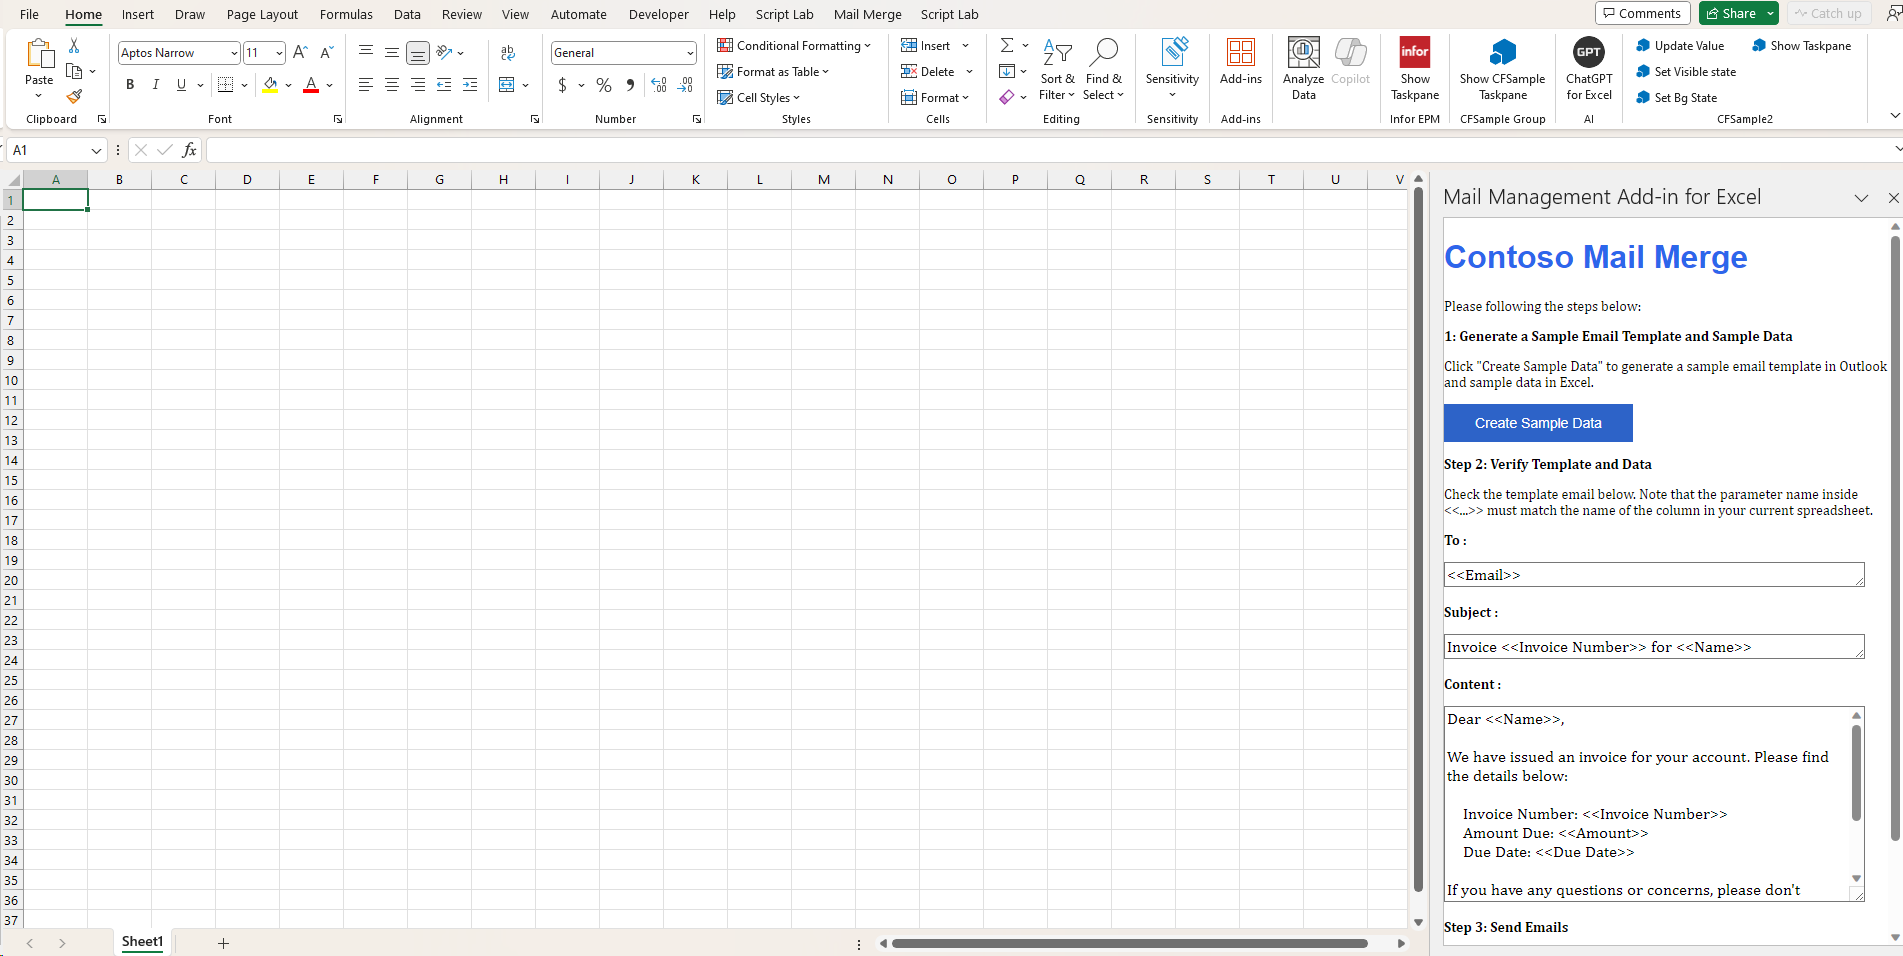
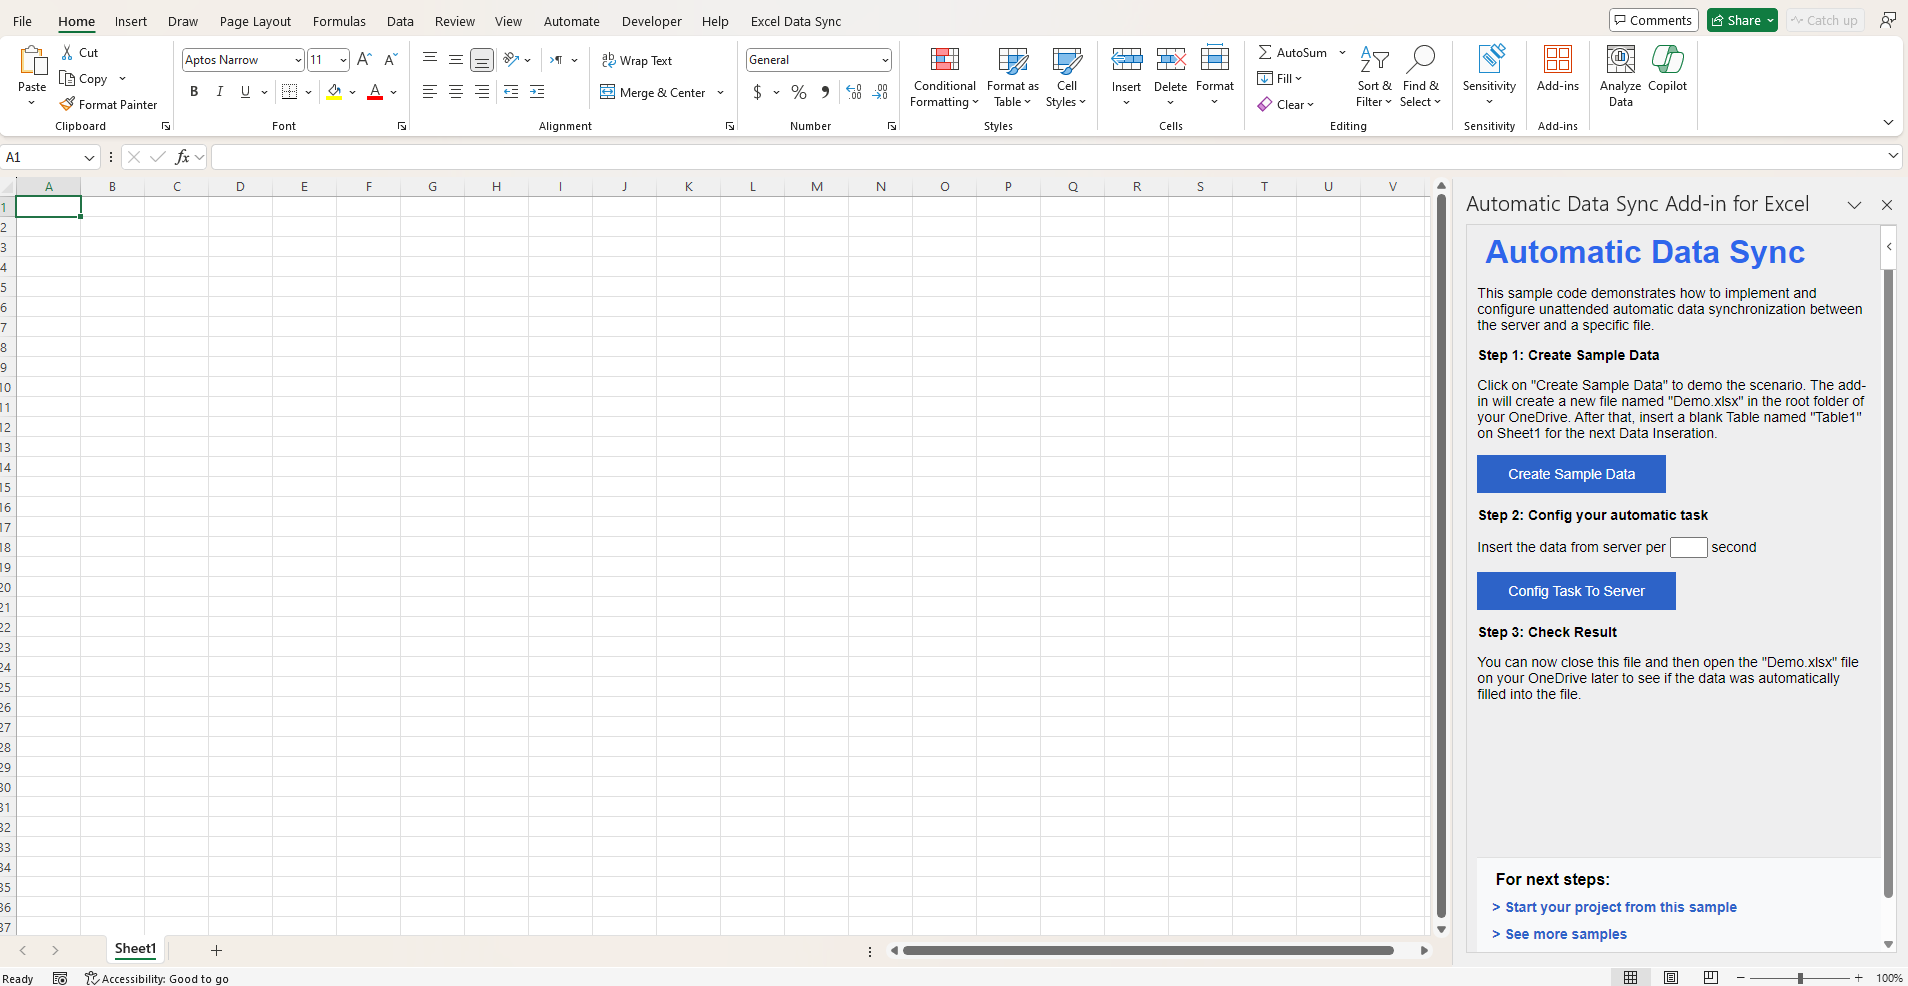
Modify ReadME.md file.

Changed region(s): [[0.0, 0.0, 1.0, 1.0], [0.9301, 0.9707, 1.0, 1.0]]

diff --git a/Config-Data-Sync-Add-in/src/taskpane/taskpane.html b/Config-Data-Sync-Add-in/src/taskpane/taskpane.html
@@ -10,14 +10,14 @@
     <link rel="stylesheet"
         href="https://static2.sharepointonline.com/files/fabric/office-ui-fabric-core/11.0.0/css/fabric.min.css" />
     <link rel="stylesheet" href="taskpane.css" />
-    <title>Config Data Sync</title>
+    <title>Automatic Data Sync</title>
     <meta name="viewport" content="width=device-width, initial-scale=1">
 
 </head>
 
 <body>
     <div class="container">
-        <h1 style="margin: 8px;">Config Data Sync</h1>
+        <h1 style="margin: 8px;">Automatic Data Sync</h1>
         <p>This sample code demonstrates how to implement and configure unattended automatic data synchronization
             between the server and a specific file.</p>
         <p></p>

diff --git a/Config-Data-Sync-Add-in/README.md b/Config-Data-Sync-Add-in/README.md
@@ -1,4 +1,4 @@
-# Microsoft Excel Config Data Sync Sample Add-in
+# Microsoft Excel Automatic Data Sync Sample Add-in
 
 [![Node.js build](https://github.com/microsoftgraph/msgraph-training-office-addin/actions/workflows/node.js.yml/badge.svg)](https://github.com/microsoftgraph/msgraph-training-office-addin/actions/workflows/node.js.yml) ![License.](https://img.shields.io/badge/license-MIT-green.svg)
 
@@ -12,7 +12,7 @@ This sample demonstrates how to use the Microsoft Graph JavaScript SDK to implem
 - Config your automatic task. Insert the data from Server according to the user setting.
 - Close the file and then open the "Demo.xlsx" file later to see if the data was automatically filled into the file.
 
-![image](./assets/expected-result.png)
+![image](./assets/taskpane.png)
 
 ## Build, run and debug the sample code
 
@@ -62,9 +62,9 @@ A local server will be hosted on https://localhost:3001/, as the log shows:
 
 ![](./assets/server.png)
 
-An Excel desktop application will be auto-launched and the Config Data Sync Addin will be auto-run on the right taskpane area. The sideload steps has been integrated into the process, eliminating the need for manual intervention.
+An Excel desktop application will be auto-launched and the Automatic Data Sync Addin will be auto-run on the right taskpane area. The sideload steps has been integrated into the process, eliminating the need for manual intervention.
 
-![](./assets/expected-result.png)
+![](./assets/taskpane.png)
 
 Please follow the steps below:
 
@@ -105,7 +105,7 @@ Let us know your experience using our sample code for Office add-in development:
 
 ## Copyright
 
-Copyright (c) 2021 Microsoft Corporation. All rights reserved.
+Copyright (c) 2024 Microsoft Corporation. All rights reserved.
 This project has adopted the [Microsoft Open Source Code of Conduct](https://opensource.microsoft.com/codeofconduct/). For more information, see the [Code of Conduct FAQ](https://opensource.microsoft.com/codeofconduct/faq/) or contact [opencode@microsoft.com](mailto:opencode@microsoft.com) with any additional questions or comments.
 <br>**Note**: The taskpane.html file contains an image URL that tracks diagnostic data for this sample add-in. Please remove the image tag if you reuse this sample in your own code project.
 <img src="https://pnptelemetry.azurewebsites.net/pnp-officeaddins/samples/excel-add-in-mail-merge-readme">
